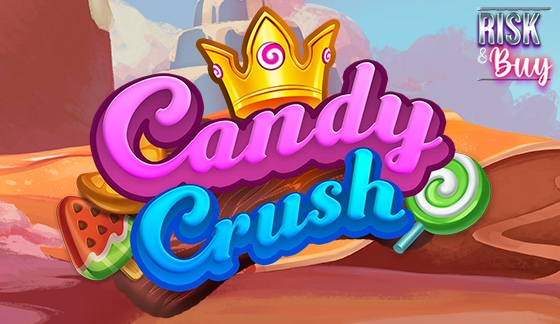
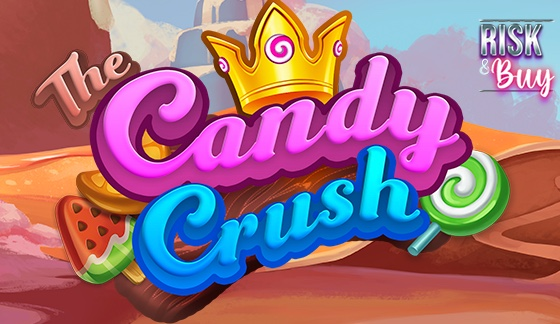
game visuals replace

diff --git a/src/candy-crush.html b/src/candy-crush.html
@@ -67,8 +67,8 @@
   </script>
   <noscript><div><img src="https://mc.yandex.ru/watch/48502577" style="position:absolute; left:-9999px;" alt="" /></div></noscript>
     <meta charset="UTF-8">
-    <title>CANDY CRUSH slot game by Mascot Gaming</title>
-    <meta name="description" content="CANDY CRUSH by Mascot Gaming is a video slot with Random, Rockfall and Risk&Buy features.">
+    <title>THE CANDY CRUSH slot game by Mascot Gaming</title>
+    <meta name="description" content="THE CANDY CRUSH by Mascot Gaming is a video slot with Random, Rockfall and Risk&Buy features.">
     <meta name="viewport" content="height=device-height,width=device-width, initial-scale=1" />
     <base href="https://mascot.games/">
     <link rel="stylesheet" href="css/all.unmin.css">
@@ -91,12 +91,12 @@
     <link rel="apple-touch-icon" sizes="180x180" href="/favicon-180.png">
     <script src="js/all.unmin.js"></script>
     <meta content='summary_large_image' name='twitter:card'/>
-    <meta name="twitter:title" content="CANDY CRUSH slot game by Mascot Gaming" />
-    <meta name="twitter:description" content="CANDY CRUSH by Mascot Gaming is a video slot with Random, Rockfall and Risk&Buy features." />
+    <meta name="twitter:title" content="THE CANDY CRUSH slot game by Mascot Gaming" />
+    <meta name="twitter:description" content="THE CANDY CRUSH by Mascot Gaming is a video slot with Random, Rockfall and Risk&Buy features." />
     <meta name="twitter:image" content="https://mascot.games/images/game_candycrush.jpg" />
 
-    <meta property="og:title" content="CANDY CRUSH slot game by Mascot Gaming" />
-    <meta property="og:description" content="CANDY CRUSH by Mascot Gaming is a video slot with Random, Rockfall and Risk&Buy features." />
+    <meta property="og:title" content="THE CANDY CRUSH slot game by Mascot Gaming" />
+    <meta property="og:description" content="THE CANDY CRUSH by Mascot Gaming is a video slot with Random, Rockfall and Risk&Buy features." />
     <meta property="og:url" content="https://mascot.games/candy-crush.html" />
     <meta property="og:image" content="https://mascot.games/images/game_candycrush.jpg" />
 </head>
@@ -200,7 +200,7 @@
                       <a href="games.html" class="go-back"><span class="back-arrow"></span>Games</a>
                     </div>
                     <div class="col inner-header-title">
-                      <h1 class="light-title text-center">Candy Crush</h1>
+                      <h1 class="light-title text-center">The Candy Crush</h1>
                       <!-- <p class="subtitle light-subtitle text-center">Find ancient treasures</p> -->
                     </div>
                   </div>
@@ -242,7 +242,7 @@
                   </div>
                   <div class="game-description-wrapper text-center">
                       <div class="game-slide-img-title">
-                          <img src="images/logo_candycrush.png" srcset="images/logo_candycrush@2x.png 2x" class="img-responsive" alt="Candy Crush">
+                          <img src="images/logo_candycrush.png" srcset="images/logo_candycrush@2x.png 2x" class="img-responsive" alt="The Candy Crush">
                       </div>
                       <p class="game-slide-descr">Sweet like candy, are you ready? Donuts, pretzels and marshmallow wait for you and send you hello!</p>
                       <div class="game-description__game-type">Video slot</div>

diff --git a/src/index.html b/src/index.html
@@ -226,11 +226,11 @@
   <div class="header-slider__wrap">
     <div class="header-slider mobile">
       <div class="game1__wrap tile">
-        <img class="img-responsive" src="images/game_candycrush.jpg" alt="Candy Crush" />
+        <img class="img-responsive" src="images/game_candycrush.jpg" alt="The Candy Crush" />
         <div class="game-overlay">
           <a href="candy-crush.html">
           <div class="game-overlay__top">
-            <div class="game-overlay__top-title">Candy Crush</div>
+            <div class="game-overlay__top-title">The Candy Crush</div>
             <div class="game-overlay__top-info"><span>Learn more</span><span class="info-icon">i</span></div>
           </div>
           </a>
@@ -272,11 +272,11 @@
     </div>
       <div class="top-row-games desktop">
         <div class="tile tile-big">
-          <img class="img-responsive" src="images/game_candycrush.jpg" alt="Candy Crush" />
+          <img class="img-responsive" src="images/game_candycrush.jpg" alt="The Candy Crush" />
           <div class="game-overlay">
             <a href="candy-crush.html">
             <div class="game-overlay__top">
-              <div class="game-overlay__top-title">Candy Crush</div>
+              <div class="game-overlay__top-title">The Candy Crush</div>
               <div class="game-overlay__top-info"><span>Learn more</span><span class="info-icon">i</span></div>
             </div>
 

diff --git a/src/games.html b/src/games.html
@@ -224,11 +224,11 @@
                 <div id="portfolio">
                   <div class="top-row-games">
                     <div class="tile tile-big scale-anm topgames profitgames riskandbuy videoslots all">
-                      <img class="img-responsive" src="images/game_candycrush.jpg" alt="Candy Crush" />
+                      <img class="img-responsive" src="images/game_candycrush.jpg" alt="The Candy Crush" />
                       <div class="game-overlay">
                         <a href="candy-crush.html">
                         <div class="game-overlay__top">
-                          <div class="game-overlay__top-title">Candy Crush</div>
+                          <div class="game-overlay__top-title">The Candy Crush</div>
                           <div class="game-overlay__top-info"><span>Learn more</span><span class="info-icon">i</span></div>
                         </div>
 
